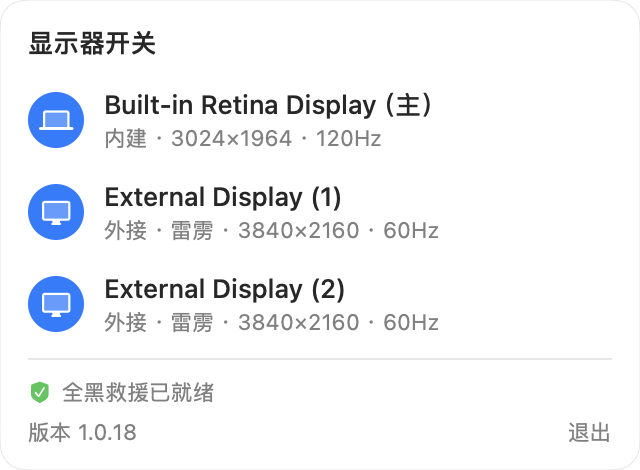
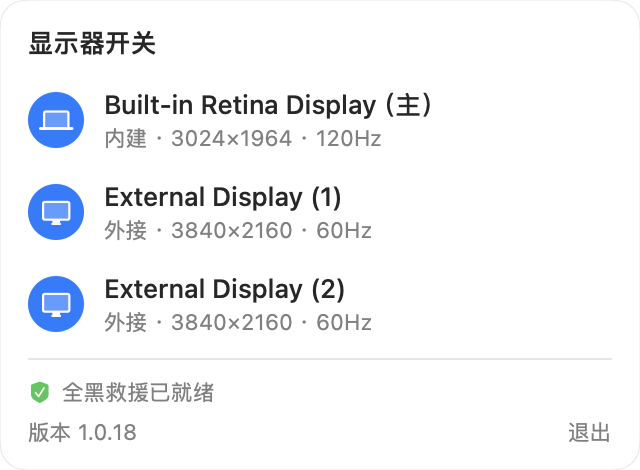
✨ 候选版 1.0.18:被锁的那行再点会抖一下;说明行不再写接法
- 只剩最后一块亮着时再点它:行尾的锁与顶部提示一起左右抖一下(macOS 拒绝输入的抖法),
  切不切仍由 Core 定,没切成且正被锁住才算被拒;被锁的行不再设成不可点,只是没有悬停高亮
- 说明行去掉「雷雳 / HDMI / USB-C」:系统只知道 Mac 这一端,显示器那头接的什么线它不知道
  (实测每块屏都只记「上游 DP、下游 DP」,DP 线与 USB-C 线无区别);写不准就不写,接口路径仍进诊断

Changed region(s): [[0.25, 0.6553, 0.6875, 0.7149], [0.25, 0.4468, 0.6875, 0.5064]]

diff --git a/Sources/DisplaySwitchUI/PanelView.swift b/Sources/DisplaySwitchUI/PanelView.swift
@@ -26,7 +26,7 @@ public struct PanelView: View {
                         .frame(maxWidth: .infinity).padding(.vertical, 18)
                 }
                 ForEach(model.items, id: \.id) { item in
-                    DisplayRow(item: item, supported: model.supported) { model.toggle(item.id) }
+                    DisplayRow(item: item, supported: model.supported, lockedTaps: model.lockedTaps) { model.toggle(item.id) }
                 }
             }
             .padding(.horizontal, 6)
@@ -48,6 +48,7 @@ public struct PanelView: View {
                 if let hint = model.hint {
                     Text("\(Image(systemName: "lock.fill")) \(hint)")
                         .imageScale(.small)
+                        .shakes(on: model.lockedTaps)
                         .transition(.opacity)
                 }
             }
@@ -109,11 +110,13 @@ public struct PanelView: View {
 }
 
 /// 一块屏一行,**整行就是开关**:点一下就切换,没有任何开关控件(他的要求)。
-/// 状态由行首圆形图标表达,关着时文字变淡并写「已关闭」——不只靠颜色;被锁住时整行不可点,
-/// 行尾一把小锁,原因写在顶部提示区。
+/// 状态由行首圆形图标表达,关着时文字变淡并写「已关闭」——不只靠颜色。
+/// 被锁住时行尾一把小锁,原因写在顶部提示区;这一行切不了,但点了要有反应:锁与顶部提示一起抖一下
+/// (他的要求)。所以它不设成不可点,只是没有鼠标经过的高亮——高亮表示「点了会切换」。
 private struct DisplayRow: View {
     let item: DisplayMenuItem
     let supported: Bool
+    let lockedTaps: Int
     let toggle: () -> Void
 
     private var locked: Bool { item.isOn && !item.canToggleOff }
@@ -141,13 +144,14 @@ private struct DisplayRow: View {
                     .font(.system(size: 10, weight: .semibold))
                     .foregroundStyle(.tertiary)
                     .animatingOnly(.easeInOut(duration: 0.2)) { $0.opacity(locked ? 1 : 0) }
+                    .shakes(on: lockedTaps)
             }
             .padding(.horizontal, 8)
             .frame(height: 46)
             .contentShape(Rectangle())
         }
-        .buttonStyle(RowButtonStyle(hovering: hovering && clickable))
-        .disabled(!clickable)
+        .buttonStyle(RowButtonStyle(hovering: hovering, interactive: clickable))
+        .disabled(!supported)
         .onHover { hovering = $0 }
         .accessibilityLabel("\(item.label),\(item.isOn ? "已打开" : "已关闭")")
         .accessibilityHint(clickable ? (item.isOn ? "点击关掉" : "点击打开") : (item.lockReason ?? ""))
@@ -176,6 +180,28 @@ private struct StatusIcon: View {
 }
 
 extension View {
+    /// `trigger` 每变一次,左右抖一下——macOS 拒绝输入时的说法(输错密码时登录框那样抖)。
+    /// 只是绘制时的偏移,不改排版,别的东西不会跟着动。macOS 13 没有关键帧动画,不抖。
+    @ViewBuilder
+    func shakes(on trigger: Int) -> some View {
+        if #available(macOS 14.0, *) {
+            keyframeAnimator(initialValue: CGFloat.zero, trigger: trigger) { content, x in
+                content.offset(x: x)
+            } keyframes: { _ in
+                KeyframeTrack {
+                    CubicKeyframe(-5, duration: 0.05)
+                    CubicKeyframe(5, duration: 0.08)
+                    CubicKeyframe(-4, duration: 0.08)
+                    CubicKeyframe(3, duration: 0.07)
+                    CubicKeyframe(-1.5, duration: 0.06)
+                    CubicKeyframe(0, duration: 0.06)
+                }
+            }
+        } else {
+            self
+        }
+    }
+
     /// 只让 `body` 里加的修饰(颜色、透明度)带动画,位置与尺寸的变化一律直接到位。
     ///
     /// 不用 `.animation(_:value:)`:它会把**同一次刷新里**这块视图的位置变化也一起动画。
@@ -196,9 +222,11 @@ extension View {
 /// 行的点击反馈,与系统菜单一致:平时无底色;鼠标经过时一层很淡的圆角高亮,按下时深一点。
 private struct RowButtonStyle: ButtonStyle {
     let hovering: Bool
+    /// 点了会不会切换。被锁住的行点了只会抖一下,不给高亮与按下效果。
+    let interactive: Bool
 
     func makeBody(configuration: Configuration) -> some View {
-        let level = configuration.isPressed ? 0.10 : hovering ? 0.06 : 0
+        let level = !interactive ? 0 : configuration.isPressed ? 0.10 : hovering ? 0.06 : 0
         return configuration.label
             .background(
                 RoundedRectangle(cornerRadius: 10, style: .continuous)

diff --git a/Tests/DisplaySwitchCoreTests/DisplayControllerTests.swift b/Tests/DisplaySwitchCoreTests/DisplayControllerTests.swift
@@ -24,8 +24,8 @@ final class MockService: SystemDisplayService {
     var liveQueryFails = false
     private var liveConnected: Set<CGDirectDisplayID>
     func liveExternalCount() -> Int? { liveQueryFails ? nil : liveConnected.count }
-    /// 物理连着的外接屏各自走的接口,与计数同源。真机上是节点路径,如 `Port-HDMI@1/DisplayPort`。
-    /// 各外接屏走的接口路径;默认是不属于任何已知接法的 `Port-Mock@N/DisplayPort`,测试可改成真实形态。
+    /// 物理连着的外接屏各自走的接口,与计数同源(诊断里原样列出)。真机上是节点路径,如 `Port-HDMI@1/DisplayPort`;
+    /// 默认 `Port-Mock@N/DisplayPort`,测试可改成真实形态。
     var portNames: [CGDirectDisplayID: String] = [:]
     func liveExternalPorts() -> [String]? {
         liveQueryFails ? nil : liveConnected.sorted().map { portNames[$0] ?? "Port-Mock@\($0)/DisplayPort" }
@@ -641,7 +641,7 @@ func diagnosticsPortsFollowPhysicalConnection() {
 
 // MARK: - 面板信息:每块屏的说明行、锁住原因、顶部摘要
 
-@Test("面板说明行:内建 / 外接、接法、分辨率与刷新率;接法唯一时才写")
+@Test("面板说明行:内建 / 外接、分辨率与刷新率;不写接法")
 func panelDetailLines() {
     let svc = MockService(all: [makeInfo(id: 1, builtin: true, x: 0), makeInfo(id: 4, x: 1920), makeInfo(id: 5, x: 3840)])
     svc.hasBuiltIn = true
@@ -653,17 +653,12 @@ func panelDetailLines() {
     let items = Dictionary(uniqueKeysWithValues: ctrl.menuItems().map { ($0.id, $0) })
     #expect(items[1]?.isBuiltin == true)
     #expect(items[1]?.detail == "内建 · 3024×1964")              // 刷新率可变(报 0)时不写 Hz
-    #expect(items[4]?.detail == "外接 · 雷雳 · 3840×2160 · 60Hz")
-    #expect(items[5]?.detail == "外接 · 雷雳 · 3840×2160 · 60Hz")  // 59.94 四舍五入
-
-    // 接法混用(一块 HDMI、一块雷雳):分不清哪块走哪条,宁可不写,也不写错
-    svc.portNames = [4: "Port-HDMI@1/DisplayPort", 5: "Port-USB-C@1/CIO/DisplayPort@0"]
-    #expect(ctrl.menuItems().first { $0.id == 4 }?.detail == "外接 · 3840×2160 · 60Hz")
-    // 只有 HDMI
+    // 曾写过「雷雳」:那只是 Mac 这一端走雷雳隧道,他读到的是显示器那头的线(一块 DP 线、一块 USB-C 线),
+    // 而那一头系统根本不知道——每块屏的记录都只写「信号是 DisplayPort」(2026-10-22 实测)。
+    #expect(items[4]?.detail == "外接 · 3840×2160 · 60Hz")
+    #expect(items[5]?.detail == "外接 · 3840×2160 · 60Hz")      // 59.94 四舍五入
+    // 走机身 HDMI 也一样不写
     svc.unplug(5); svc.portNames = [4: "Port-HDMI@1/DisplayPort"]
-    #expect(ctrl.menuItems().first { $0.id == 4 }?.detail == "外接 · HDMI · 3840×2160 · 60Hz")
-    // 查不到接口:不写接法
-    svc.liveQueryFails = true
     #expect(ctrl.menuItems().first { $0.id == 4 }?.detail == "外接 · 3840×2160 · 60Hz")
 }
 

diff --git a/Sources/DisplaySwitchCore/PanelText.swift b/Sources/DisplaySwitchCore/PanelText.swift
@@ -2,27 +2,11 @@ import Foundation
 
 /// 面板上给人看的文字。全部是纯函数,界面层只负责摆放,不再拼字。
 
-/// 一个外接屏接口路径属于哪种接法。认不出的返回 nil——宁可不写,也不写错。
-/// 判据是传输节点路径(实测形态):机身 HDMI 为 `Port-HDMI@1/DisplayPort`,
-/// 走雷雳 / USB4 隧道的(含雷雳拓展坞)为 `Port-USB-C@1/CIO/DisplayPort@0`,
-/// USB-C 直出(DP 替代模式,不经隧道)为 `Port-USB-C@N/DisplayPort`。
-/// 注意「雷雳」只说明走的是雷雳隧道:直连的雷雳显示器也会是这个形态,所以不写成「拓展坞」。
-func linkKind(ofPort port: String) -> String? {
-    if port.hasPrefix("Port-HDMI") { return "HDMI" }
-    if port.contains("/CIO/") { return "雷雳" }
-    if port.hasPrefix("Port-USB-C") { return "USB-C" }
-    return nil
-}
-
-/// 所有外接屏共用的接法;混用(如一块 HDMI、一块雷雳)或有认不出的,返回 nil。
-/// 为什么不逐块标:系统没有给出「哪块屏走哪个接口」的可靠对应——同型号两块屏的 EDID 头部序列号
-/// 都是 19(实测),按它对应会张冠李戴。接法唯一时,每块外接屏必然都是这种接法,写上才不会错。
-func sharedLinkLabel(_ ports: [String]?) -> String? {
-    guard let ports, !ports.isEmpty else { return nil }
-    let kinds = ports.map(linkKind(ofPort:))
-    guard let first = kinds.first, let kind = first, kinds.allSatisfy({ $0 == kind }) else { return nil }
-    return kind
-}
+// 不写接法(雷雳 / HDMI / USB-C)。系统能确定的只有 Mac 这一端:信号从哪个口出、走不走雷雳隧道;
+// 他关心的是显示器那头接的什么线,而那一头系统不知道——实测(2026-10-22):两块屏一块接 DP 线、
+// 一块接 USB-C 线,系统为每块屏记的都只是「上游 DP、下游 DP」;同型号两块屏的 EDID 也一模一样,
+// 连 Mac 这一端都对不上是哪一块。写 Mac 这一端(曾写「雷雳」),读起来就是在说显示器那头,等于写错。
+// 接口路径仍原样写进诊断(见 `DisplayController` 的诊断快照),排查时用。
 
 /// 分辨率与刷新率,如 `3840×2160 · 60Hz`。刷新率为 0(可变刷新率)时不写 Hz。
 func modeText(_ mode: DisplayMode) -> String {

diff --git a/Sources/DisplaySwitchCore/DisplayController.swift b/Sources/DisplaySwitchCore/DisplayController.swift
@@ -7,7 +7,7 @@ public struct DisplayMenuItem: Equatable, Sendable {
     public let isOn: Bool
     public let canToggleOff: Bool
     public let isBuiltin: Bool
-    /// 说明行,如「外接 · 雷雳 · 3840×2160 · 60Hz」「内建 · 已关闭」。
+    /// 说明行,如「外接 · 3840×2160 · 60Hz」「内建 · 已关闭」。
     public let detail: String
     /// 开关被锁住(亮着却不能关)时的原因;能关、或本来就关着时为 nil。
     public let lockReason: String?
@@ -118,20 +118,18 @@ public final class DisplayController {
         // 整组(活跃+已关闭)一起算标签:同名屏按 UUID 稳定编号,关掉其一不丢号、重开不漂移。
         let labels = displayLabels(for: ordered)
         let fallback = builtInFallbackAvailable()
-        let link = sharedLinkLabel(service.liveExternalPorts())
         return ordered.map { d in
             let on = disabled[d.id] == nil
             let canOff = (service.isSupported && on) ? canDisable(d, among: active, builtInFallback: fallback) : false
             return DisplayMenuItem(id: d.id, label: labels[d.id] ?? displayLabel(for: d), isOn: on, canToggleOff: canOff,
-                                   isBuiltin: d.isBuiltin, detail: detailLine(for: d, isOn: on, link: link),
+                                   isBuiltin: d.isBuiltin, detail: detailLine(for: d, isOn: on),
                                    lockReason: (service.isSupported && on && !canOff) ? lockReason : nil)
         }
     }
 
-    /// 说明行:内建 / 外接 → 接法(仅外接、且所有外接屏接法一致时)→ 分辨率与刷新率(亮着时)或「已关闭」。
-    private func detailLine(for d: DisplayInfo, isOn: Bool, link: String?) -> String {
+    /// 说明行:内建 / 外接 → 分辨率与刷新率(亮着时)或「已关闭」。不写接法,原因见 PanelText。
+    private func detailLine(for d: DisplayInfo, isOn: Bool) -> String {
         var parts = [d.isBuiltin ? "内建" : "外接"]
-        if !d.isBuiltin, let link { parts.append(link) }
         if !isOn {
             parts.append("已关闭")
         } else if let mode = service.currentMode(d.id) {

diff --git a/Sources/DisplaySwitchUI/PanelModel.swift b/Sources/DisplaySwitchUI/PanelModel.swift
@@ -8,6 +8,9 @@ public final class PanelModel: ObservableObject {
     @Published public private(set) var items: [DisplayMenuItem] = []
     /// 顶部提示区的话,见 `panelHint`。
     @Published public private(set) var hint: String?
+    /// 点了被锁住那一行的次数。每多一次,界面就让锁形图标与顶部提示抖一下:
+    /// 锁住后再点要有反应(他的要求),否则看上去像点了没反应。
+    @Published public private(set) var lockedTaps = 0
     @Published public private(set) var supported = true
     @Published public private(set) var lastRescue: Date?
 
@@ -45,9 +48,14 @@ public final class PanelModel: ObservableObject {
     /// 曾用系统开关控件把「目标值」传进来,实测它自己记的状态会落后一步,打开面板后第一下
     /// 传回的总是当前值,于是第一下没反应(2026-10-22)。界面不保存任何开关状态,就不会再错位。
     public func toggle(_ id: CGDirectDisplayID) {
-        controller.toggle(id: id)
+        let done = controller.toggle(id: id)
         reload()
-        // 系统应用配置要一点时间(实测 0.1–0.5 秒),晚一点再读一次,让说明行和摘要对上真实状态。
+        guard done else {
+            // 没切成、而这块屏正被锁住:是点了被锁住的那一行(切不切由 Core 定,这里只认结果)。
+            if items.first(where: { $0.id == id })?.lockReason != nil { lockedTaps += 1 }
+            return
+        }
+        // 系统应用配置要一点时间(实测 0.1–0.5 秒),晚一点再读一次,让说明行和顶部提示对上真实状态。
         DispatchQueue.main.asyncAfter(deadline: .now() + 0.6) { [weak self] in self?.reload() }
     }
 

diff --git a/README.md b/README.md
@@ -24,9 +24,9 @@ DisplaySwitch 只做这一件事，但把它做到不会出事：开关任意一
 
 ## 功能
 
-- 点菜单栏图标弹出面板，**每块屏一张卡片**（含内建屏）：内建 / 外接、接法（雷雳 / HDMI / USB-C）、分辨率与刷新率。
+- 点菜单栏图标弹出面板，**每块屏一张卡片**（含内建屏）：内建 / 外接、分辨率与刷新率。
 - **点整行就开 / 关**，没有小开关要瞄准：开着的屏行首是彩色实心圆，关着的变灰并写「已关闭」。
-- **只剩最后一块亮着时，顶部直接写原因**：「至少要保留一块屏幕点亮」，被锁的那行带一把小锁——不只是变灰。
+- **只剩最后一块亮着时，顶部直接写原因**：「至少要保留一块屏幕点亮」，被锁的那行带一把小锁；再点它，锁和提示会抖一下。
 - 面板底部显示**全黑救援是否就绪**和上次救援的时间；点它打开救援日志。
 - 显示名 = 系统名 + 稳定编号 +（主）。同型号多块屏按 UUID 编号 `(1)(2)`，关、开、挪位置都不会串号。
 - 退出 app → **所有被关的屏自动恢复**。
